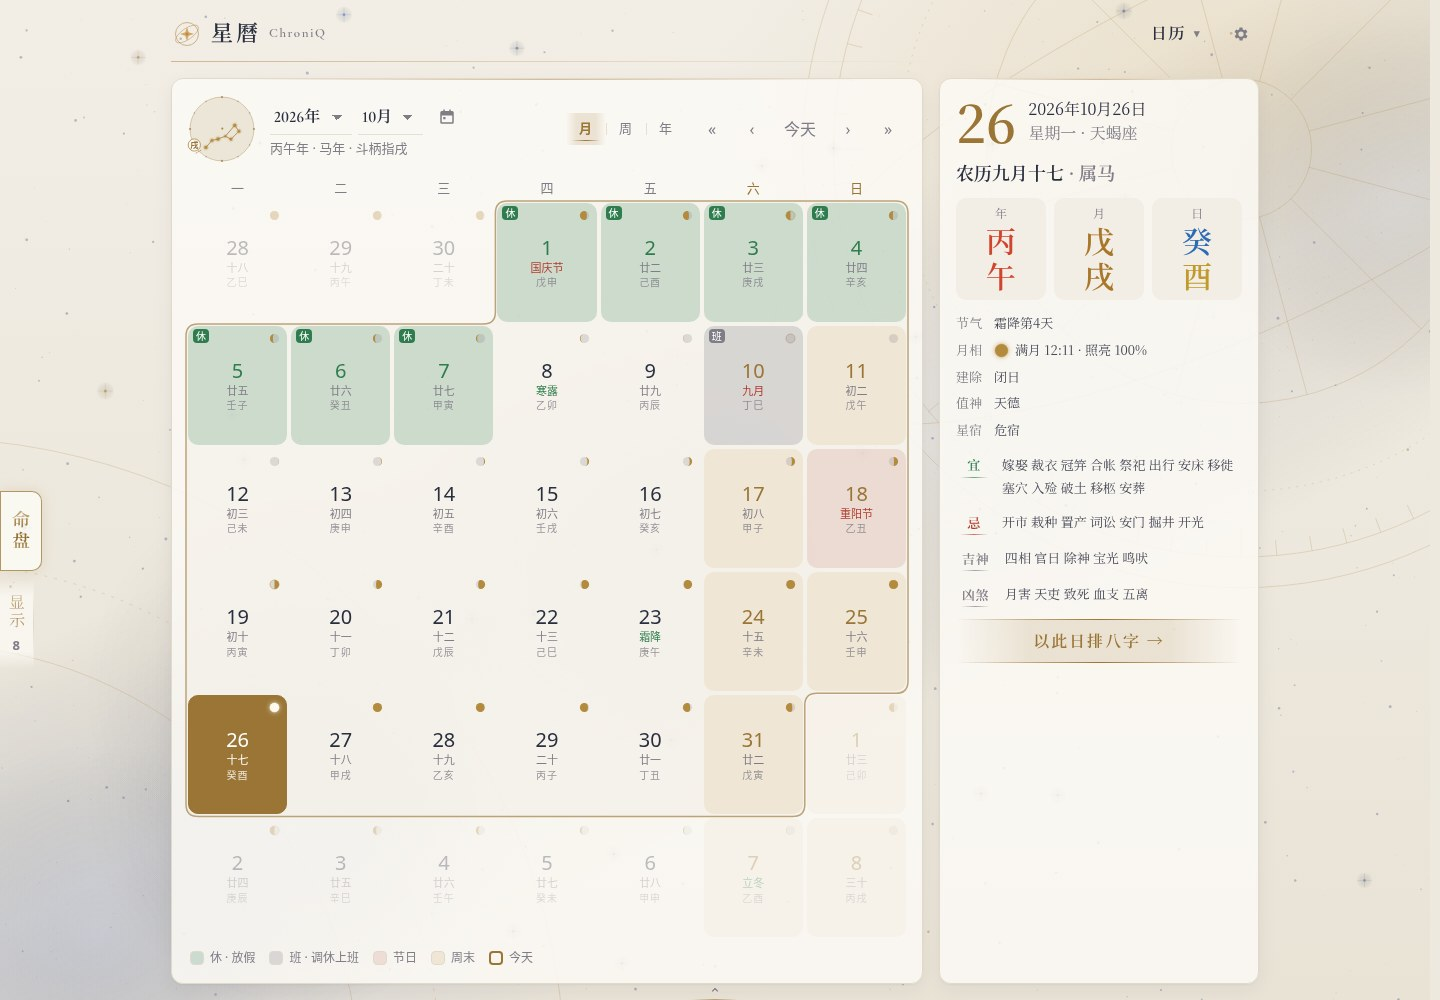
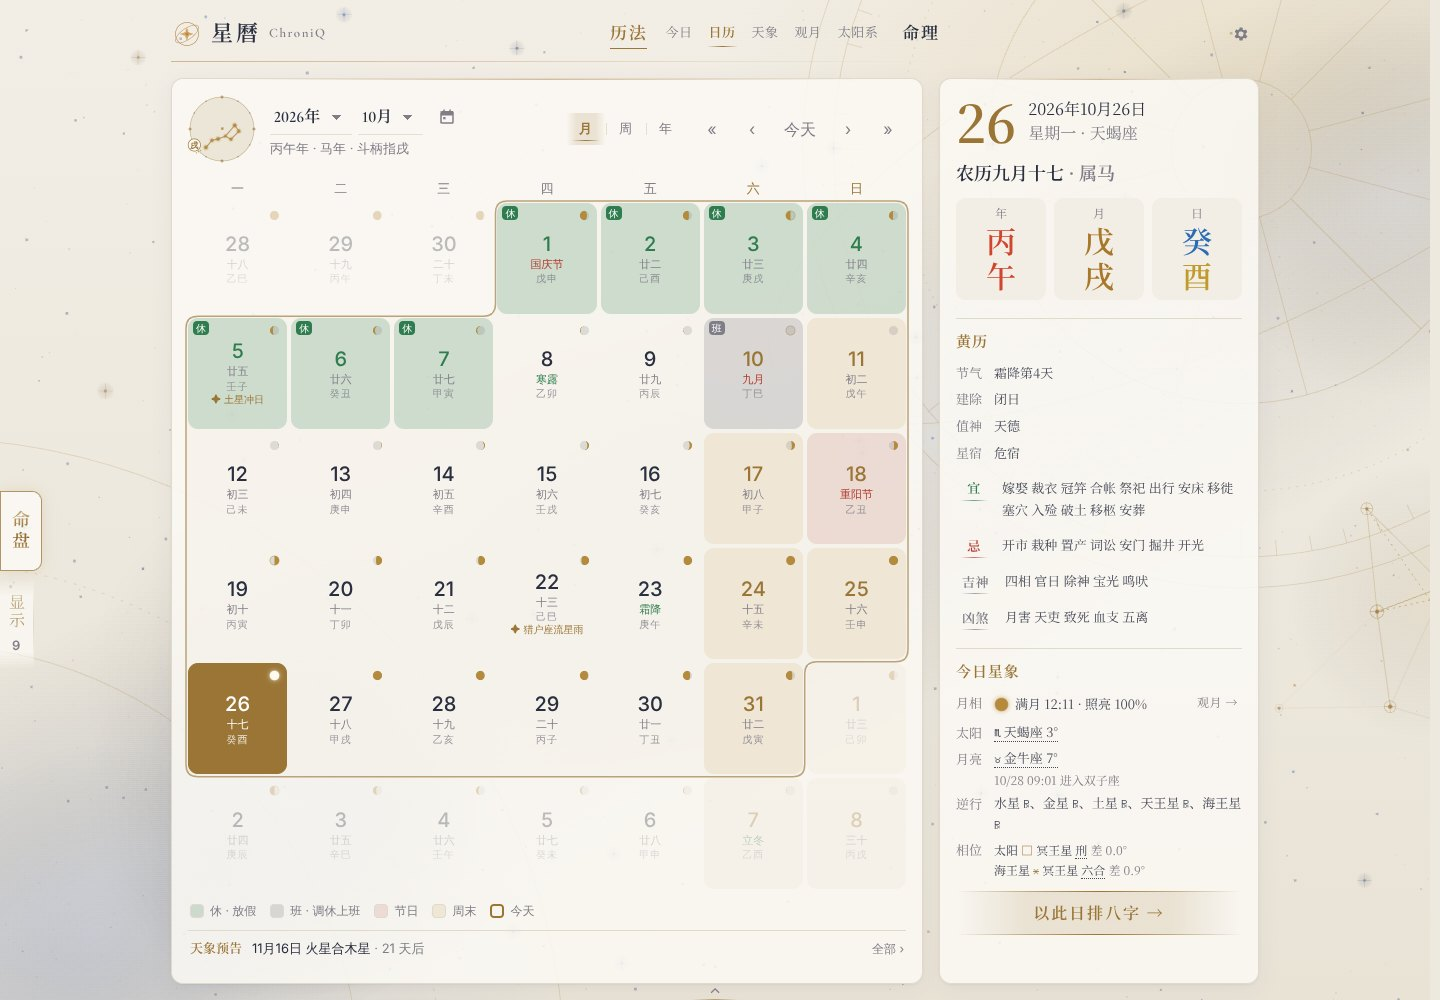
Docs and README screenshots for the page links, eclipses, 4K map, feature cards, poster, tilted view and events
features.md, both Specs and both READMEs describe what is new; calendar.jpg,
moon.jpg and solar.jpg are taken again as docs/images/README.md sets out.

Claude-Session: https://claude.ai/code/session_01MvmRSjvkQxUpLQepkGsN1z

diff --git a/docs/features.md b/docs/features.md
@@ -8,11 +8,11 @@
 
 ### 今日
 
-一屏看完今天：左边是黄历和月相，下面是「今日星象」（太阳和月亮所在星座、月亮何时换座、正在逆行的行星、最紧密的几个相位）；中间是今晚的天空，列出日落日出、月亮和可见的行星（什么时候能看到、何时最高、在哪个方向），以及接下来的天象，点任一条都会跳到「天象」页的那一刻；右边是今天与左侧「命盘」里所选命盘的关系（今日十神、当前大运、今天的冲合刑和接下来的日子）。观测地与「天象」页共用。默认首页仍是日历。
+一屏看完今天：左边是黄历和月相，下面是「今日星象」（太阳和月亮所在星座、月亮何时换座、正在逆行的行星、最紧密的几个相位）；中间是今晚的天空，列出日落日出、月亮和可见的行星（什么时候能看到、何时最高、在哪个方向），以及接下来的天象，点任一条都会跳到「天象」页的那一刻（月亮旁的「观月 →」打开观月页，行星旁的「太阳系 →」打开太阳系页并选中那颗行星；月相一行也有「观月 →」）；右边是今天与左侧「命盘」里所选命盘的关系（今日十神、当前大运、今天的冲合刑和接下来的日子）。观测地与「天象」页共用。默认首页仍是日历。
 
 ### 日历
 
-有月、周、年三种视图。周视图列出一周七天的建除和宜忌；年视图一屏显示十二个月，节气、节日、法定假日用颜色标出，每月下方列出当月的节气和节日。月视图里可以用年、月下拉框切换，或者点日历图标展开选择面板（年份网格、月份网格、跳到指定日期）；格子里在农历日期下方显示日干支，周末带浅色底色。月视图显示公历、农历、节气、节日和法定节假日（休/班）；本月的日子用一圈外框框在一起，与上下月的日子区分开；不同的日子用不同底色：放假（休）绿色、外国假日蓝色、调休上班（班）灰色、节日浅红、命盘的日子浅紫，周末另有底色，今天加框，格子下方有图例。点击任意一天，右侧详情先列出干支和「黄历」（节气、建除、值神、星宿、宜忌、吉神凶煞），下面是「星象」：当天的天象、月相，以及太阳和月亮所在星座、月亮何时换座、逆行和相位。选今天时标题为「今日星象」、按当前时刻计算，其他日子为「当日星象」、按当天中午计算。在电脑上日历页铺满屏幕：月视图的格子随窗口高度拉伸，右侧详情栏在栏内滚动；页脚收在屏幕下沿之外，需要时再拉出来（见「页脚角标」）。
+有月、周、年三种视图。周视图列出一周七天的建除和宜忌；年视图一屏显示十二个月，节气、节日、法定假日用颜色标出，每月下方列出当月的节气和节日。月视图里可以用年、月下拉框切换，或者点日历图标展开选择面板（年份网格、月份网格、跳到指定日期）；格子里在农历日期下方显示日干支，周末带浅色底色。月视图显示公历、农历、节气、节日和法定节假日（休/班）；本月的日子用一圈外框框在一起，与上下月的日子区分开；不同的日子用不同底色：放假（休）绿色、外国假日蓝色、调休上班（班）灰色、节日浅红、命盘的日子浅紫，周末另有底色，今天加框，格子下方有图例。点击任意一天，右侧详情先列出干支和「黄历」（节气、建除、值神、星宿、宜忌、吉神凶煞），下面是「星象」：当天的天象、月相，以及太阳和月亮所在星座、月亮何时换座、逆行和相位。选今天时标题为「今日星象」、按当前时刻计算，其他日子为「当日星象」、按当天中午计算。月相一行的「观月 →」打开观月页、看那天晚上 21:00 的月亮（今天则是此刻）。在电脑上日历页铺满屏幕：月视图的格子随窗口高度拉伸，右侧详情栏在栏内滚动；页脚收在屏幕下沿之外，需要时再拉出来（见「页脚角标」）。
 
 ### 月相与斗柄指月
 
@@ -54,12 +54,14 @@
 - **天空**：背景始终是深色的宇宙（不分白天黑夜），画出那一刻月亮周围的恒星（到 6 等，月亮附近的星淹没在月光里）和行星，月亮周围有一圈月光。月亮始终在画面正中，清楚地画出来；它在地平线下时，四周是半透明的深色地面（如天象页的穹顶视角），左下角注明「此刻月亮在地平线下」，缩小到视野够大时地平线和方位进入画面。
 - **缩放**：滚轮、双指或右下角的 ＋ / − 在「望远镜」和「肉眼」之间连续缩放：最近时月亮是屏幕短边的 3 倍宽，可以凑近看环形山（只画出屏幕上那一部分；再放大月面图的分辨率就不够了），最远约 100° 视野，月亮只是星空里的一个亮点，地平线和方位也进入画面；⟲ 回到默认大小。月亮画得大时自动换用更清晰的月面图。双指缩放时不会顺带拖动时间：两指一放下就只缩放，直到手指全部抬起。
 - **改时间**：在天空上左右拖动即可前后移动时间（放大时约每像素 5 分钟），或用左上角的时间栏：它只有一行（手机上也是），写着日期和时刻，点一下在下面展开日期、时间和「前一天」「后一天」，旁边是「现在」（回到此刻）和 ◀ ▶（前后一小时）。
-- **月海与环形山**：月面上标出静海、澄海、危海、雨海、风暴洋等月海，月亮够大时再标出第谷、哥白尼等环形山；位置随天平动和月亮的倾斜一起转动，可在面板里关掉。
+- **月海与环形山**：月面上标出静海、澄海、危海、雨海、风暴洋等月海，月亮够大时再标出第谷、哥白尼等环形山；位置随天平动和月亮的倾斜一起转动，可在面板里关掉。点一个名字弹出小卡片：是月海还是环形山、直径多少，以及一句介绍（如阿波罗 11 号降落的静海、嫦娥五号采样的风暴洋、云海里的「直壁」、第谷的辐射纹），点天空或按 Esc 收起。
+- **月食**：月食期间月面上画出地球的影子：半影里按遮住太阳的多少逐渐变暗，本影里只有穿过地球大气的红光，月亮成了暗红铜色（偏食时本影部分更暗，全食时整个月亮发红）；影子的位置由地心方向的地影轴和本影、半影半径算出。面板的「月食」一行写出正在发生的月食（半影、偏食或全食阶段），或者下一次月食的日期和种类，以及食甚、初亏复圆、食既生光的时刻，「看食甚 →」直接跳到食甚；日历详情里的月食事件也有「观月 →」。
+- **月相海报**：面板里的「生成月相海报」把此刻的月亮做成一张竖版图片：星空背景、按此时此地所见画出的月亮，下面是日期时刻、月相和农历、观测地（时刻和地点可以隐藏，标题可改），在本机生成，可保存或分享。
 - **左下**是月相名称、农历日、月龄和照亮比例；**右侧面板**列出方位和高度、当天的月出、中天、月落、距离和视直径、下次近地点或远地点、天平动（经、纬）以及月亮所在的宿，还有观测地和本月朔、上弦、望、下弦的时刻，面板可以收起。
 - **底部**是从朔到下一次朔每一天的月相和农历日（点一下跳到那一天），以及从当地正午到次日正午的月亮高度曲线（夜间、晨昏和白天用不同深浅标出）：在曲线上拖动可在这一天之内改变时间（拖到右端停在次日 11:59），用方向键（按住 Shift 一次一小时）则可以一直走到前后的日子。
 - **手机上**，面板变成屏幕底部的抽屉：收起时只有一行摘要和高度曲线，向上拖（或点一下）展开到半屏、全屏，里面是全部数据和本月每天的月相。
 
-浏览器不支持 WebGL 时，月亮改用平面的月相图。月面图（约 0.7 MB）只在打开观月页时加载。
+浏览器不支持 WebGL 时，月亮改用平面的月相图。月面图（约 0.7 MB）只在打开观月页时加载；月亮画得大时再取 2K 彩色图，放大凑近看时再取 4K 彩色图（约 1.3 MB，显卡不支持 4096 宽的贴图时仍用 2K），这两张都不预先缓存。
 
 ### 太阳系（单独一页）
 
@@ -67,8 +69,9 @@
 
 - **缩放**：滚轮、双指或右下角的 ＋ / − 连续缩放，从金星轨道以内一直到冥王星以外（左下角写出当前视野边缘离太阳多少 AU）。到火星附近为止距离是真实比例，再往外按一个小于 1 的幂次压缩，看全太阳系时压缩到平方根，这样内行星也看得见；距离网格随之变化。比视野更远的行星画在边缘上它所在的方向。
 - **改日期**：在图上左右拖动即可前后移动日期（视野越大每像素走的天数越多），或用左上角只有一行的时间栏：点日期和时刻在下面展开日期选择，旁边的「现在」回到此刻。双指缩放时不会顺带拖动日期：两指一放下就只缩放，直到手指全部抬起。
-- **播放**：底部的播放条可按 1 天 / 1 周 / 1 月 / 1 年每秒播放行星运行，旁边的滑条是这一年，拖动可跳到这一年的任一天。
-- **视线与逆行**：悬停行星可看地球到它的视线；点一下行星（或表格里的一行）把它选中，视线一直显示（播放时也是），并越过它渐渐淡出；外圈黄道上画出它最近一段时间在星空中走过的路线（越早越淡，至少两个月、播放时约为 10 秒的行程），逆行时这串点会折返，视线变红并标出「逆行」；底部滑条上用红色标出它这一年逆行的时段。右侧面板顶部是它的卡片：从地球看在哪个星座多少度、距地球多远、光行时，以及这次逆行从哪天开始、约哪天转顺行（或下一次逆行的日期）。选中地球时，视线从地球穿过太阳指向黄道，那串点就是太阳在一年中走过的路线（黄道）；再点一次、点空白处或按 Esc 取消。拖动画面不会取消选中。
+- **播放**：底部的播放条可按 1 天 / 1 周 / 1 月 / 1 年每秒播放行星运行，旁边的滑条是这一年，拖动可跳到这一年的任一天。滑条上方的彩色小点是这一年行星与太阳的大事：外行星的冲日、合日，水星和金星的下合、上合、东大距、西大距，颜色是行星的颜色（悬停看名称和日期），点一下跳到那天并选中那颗行星。
+- **斜视**：右下角的「俯视 / 斜视」切换视角。斜视时轨道平面倾斜约 64°，轨道和黄道外圈变成椭圆，每颗行星画在它高出或低于黄道面的位置（冥王星的倾斜轨道一眼可见），近处的行星画在远处的上面；两种视角之间平滑转动。
+- **视线与逆行**：悬停行星可看地球到它的视线；点一下行星（或表格里的一行）把它选中，视线一直显示（播放时也是），并越过它渐渐淡出；外圈黄道上画出它最近一段时间在星空中走过的路线（越早越淡，至少两个月、播放时约为 10 秒的行程），逆行时这串点会折返，视线变红并标出「逆行」；底部滑条上用红色标出它这一年逆行的时段。宽屏上它的卡片浮在图上、紧挨着它（手机上在抽屉里）：从地球看在哪个星座多少度、距地球多远、光行时，以及这次逆行从哪天开始、约哪天转顺行（或下一次逆行的日期）。选中地球时，视线从地球穿过太阳指向黄道，那串点就是太阳在一年中走过的路线（黄道）；再点一次、点空白处或按 Esc 取消。拖动画面不会取消选中。
 - **右侧面板**列出各行星距太阳、距地球的距离、光行时（面板较窄时省略），从地球看所在的星座（与星盘相同，地球那一行是太阳的星座），以及顺行还是逆行，面板可以收起。手机上面板变成底部抽屉：收起时只有一行摘要和播放条，展开后是选中行星的卡片和表格。
 
 外圈是黄道十二星座和沿黄道的真实亮星（恒星极远，所以只看方向）。悬停某颗行星，外圈上它所在的星座会亮起，并标出准确位置。行星朝向太阳的一面亮、背面暗，身后拖着一小段轨迹，看得出运行方向；太阳带着光晕。打开页面时各条轨道依次画出来，行星随后出现。行星位置由 astronomy-engine 计算，只在打开这一页时加载。

diff --git a/docs/SPEC.en.md b/docs/SPEC.en.md
@@ -23,8 +23,8 @@ ChroniQ is a static web app for mobile and desktop browsers, combining calendar 
 | F-12 | Sky forecast | Eclipses, planetary oppositions and elongations, planetary conjunctions, major meteor showers and supermoons, filtered to what is visible from the observing place, with the best moment, direction and altitude; shown on the calendar and able to open the sky page at that moment; a coming-year `.ics` export (sky events, solar terms, the chosen chart's dates) |
 | F-03 | Sky | Bodies at a chosen time and coordinates; azimuth, altitude, magnitude and rise/set times; Western constellations, Chinese asterisms and 28 mansions; overhead/below-ground views, zoom, pan, time dragging and selection |
 | F-04 | Tracks | Daily tracks span 12 hours before and after the displayed instant, with dashed past segments, solid future segments and local whole-hour marks; historical tracks cover approximately 1, 3 or 12 months |
-| F-05 | Moon | Full screen: the lunar globe among the stars round the Moon at that moment and place (a dark space background, stars, planets, ground and horizon), zoomed continuously from three times the screen to the eye’s field, dragged to change the time; phase, libration, names of seas and craters, moonrise/moonset and the lunation’s phases |
-| F-06 | Solar system | Full screen: planetary orbits and positions, distances, light travel times, direct/retrograde motion and time playback; continuous zoom from the inner planets out to Pluto, dragged to change the date; the chosen planet’s line of sight, its path along the zodiac and its retrograde spans; the page loads independently of the Sky interface |
+| F-05 | Moon | Full screen: the lunar globe among the stars round the Moon at that moment and place (a dark space background, stars, planets, ground and horizon), zoomed continuously from three times the screen to the eye’s field, dragged to change the time; phase, libration, named seas and craters with notes, lunar eclipses (Earth’s shadow, phases and contacts), moonrise/moonset, the lunation’s phases and a Moon poster |
+| F-06 | Solar system | Full screen: planetary orbits and positions, distances, light travel times, direct/retrograde motion and time playback; continuous zoom from the inner planets out to Pluto, dragged to change the date; views from above or tilted; the chosen planet’s line of sight, its path along the zodiac and its retrograde spans; the year’s oppositions, conjunctions and elongations; the page loads independently of the Sky interface |
 | F-07 | Bazi | A plain-words reading generated by fixed rules; Four pillars, ten gods, symbolic stars, five elements, fortune onset and nested fortune periods; configurable apparent solar time, late-Zi-hour handling and other school rules |
 | F-08 | Ziwei Doushu | Twelve palaces, stars, four transformations, palace-stem transformations, multiple fortune layers and school settings |
 | F-09 | Western astrology | Natal charts, transits, progressions, synastry and composite charts; selectable house systems, nodes and related progression methods |

diff --git a/README.en.md b/README.en.md
@@ -15,8 +15,8 @@ A calendar, a view of the real sky, and several charting traditions in one web a
 | Today | The day's almanac, the day in the stars (Sun and Moon signs, retrogrades, aspects), tonight's visible planets and upcoming sky events, and how the day meets your chart |
 | Calendar | Month, week and year views; Chinese lunar dates, solar terms, moon phases, stems and branches, almanac entries, the selected day in the stars, Chinese/French holidays and dates associated with saved charts |
 | Sky | Sky at a chosen time and location; Western constellations, Chinese asterisms and the 28 mansions; daily tracks, rise/set times and historical tracks |
-| Moon | The Moon full screen in the real sky round it, zoomed from a telescope’s view to the eye’s; phase, libration, named seas and craters, local moonrise/moonset |
-| Solar system | Planetary orbits full screen, zoomed from the inner planets out to Pluto; distances, light travel times, time playback, and a chosen planet’s retrograde loop |
+| Moon | The Moon full screen among the stars, zoomed from the eye’s view to its craters; phase, libration, named seas and craters, lunar eclipses, local moonrise/moonset and a Moon poster |
+| Solar system | Planetary orbits full screen, from above or tilted, zoomed from the inner planets out to Pluto; distances, light travel times, time playback, the year’s oppositions and elongations, and a chosen planet’s retrograde loop |
 | Bazi | Four pillars, ten gods, symbolic stars and fortune periods; optional apparent solar time and school-specific rules |
 | Ziwei Doushu | Twelve palaces, stars, four transformations and multiple fortune layers, with configurable schools |
 | Western astrology | Natal charts, transits, progressions, synastry and composite charts, with configurable house systems and other methods |

diff --git a/README.md b/README.md
@@ -56,14 +56,14 @@
     <td width="50%" valign="top">
       <a href="docs/images/moon.jpg"><img src="docs/images/moon.jpg" alt="观月：月球表面、月相、月出月落与月度变化" /></a>
       <br /><b>🌕 观月｜今晚的月亮长这样</b><br />
-      月亮铺满屏幕，挂在此刻真实的星空里，从望远镜放大到肉眼；拖动改时间，标出月海与环形山。
+      月亮铺满屏幕，从肉眼视野一路放大到环形山；拖动改时间，看月食时的地影，还能生成月相海报。
     </td>
   </tr>
   <tr>
     <td width="50%" valign="top">
       <a href="docs/images/solar.jpg"><img src="docs/images/solar.jpg" alt="太阳系：行星轨道、位置、距离和顺逆行信息" /></a>
       <br /><b>🪐 太阳系｜让行星跑一会儿</b><br />
-      从金星缩放到冥王星，播放时间看它们沿轨道前进；选一颗行星，看它怎样「逆行」。
+      从金星缩放到冥王星，俯视或斜视，播放时间看它们沿轨道前进；选一颗行星，看它怎样「逆行」。
     </td>
     <td width="50%" valign="top">
       <a href="docs/images/bazi.jpg"><img src="docs/images/bazi.jpg" alt="八字：出生信息、四柱排盘及岁运信息" /></a>
